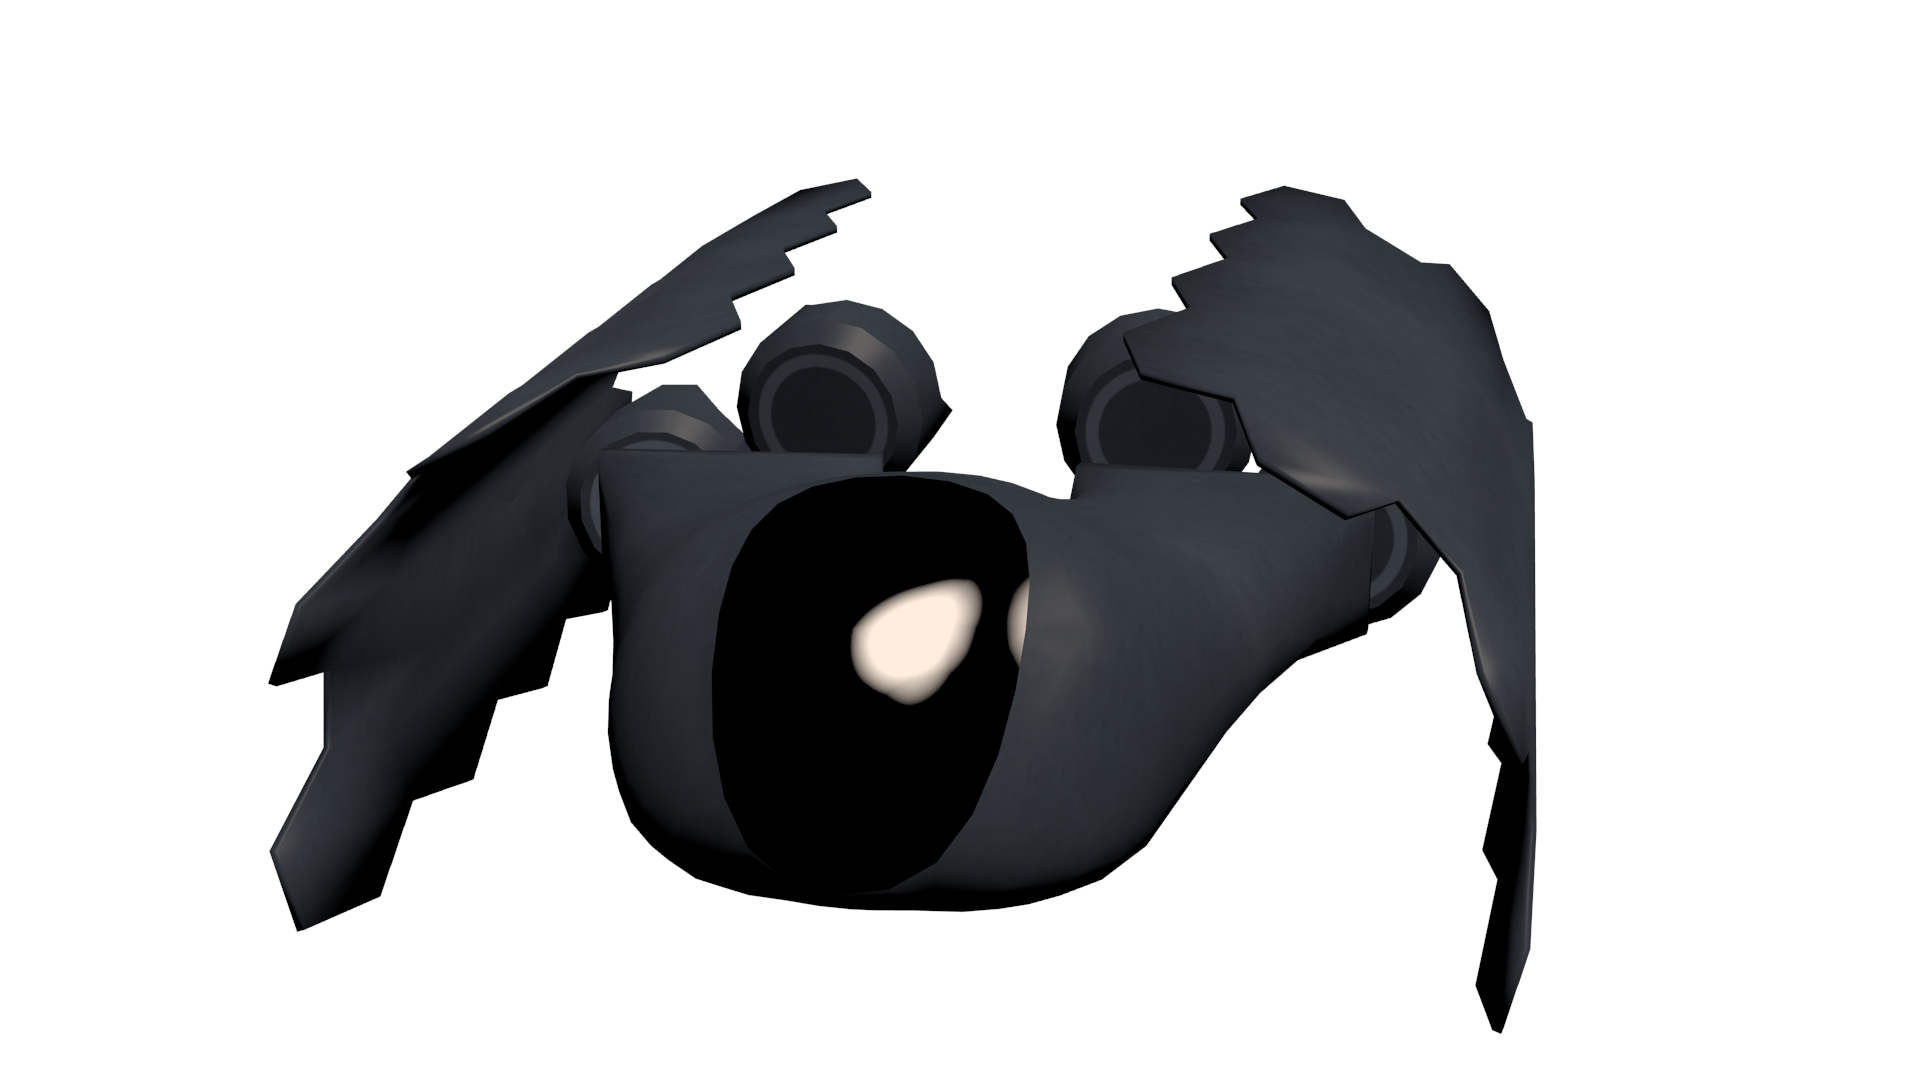
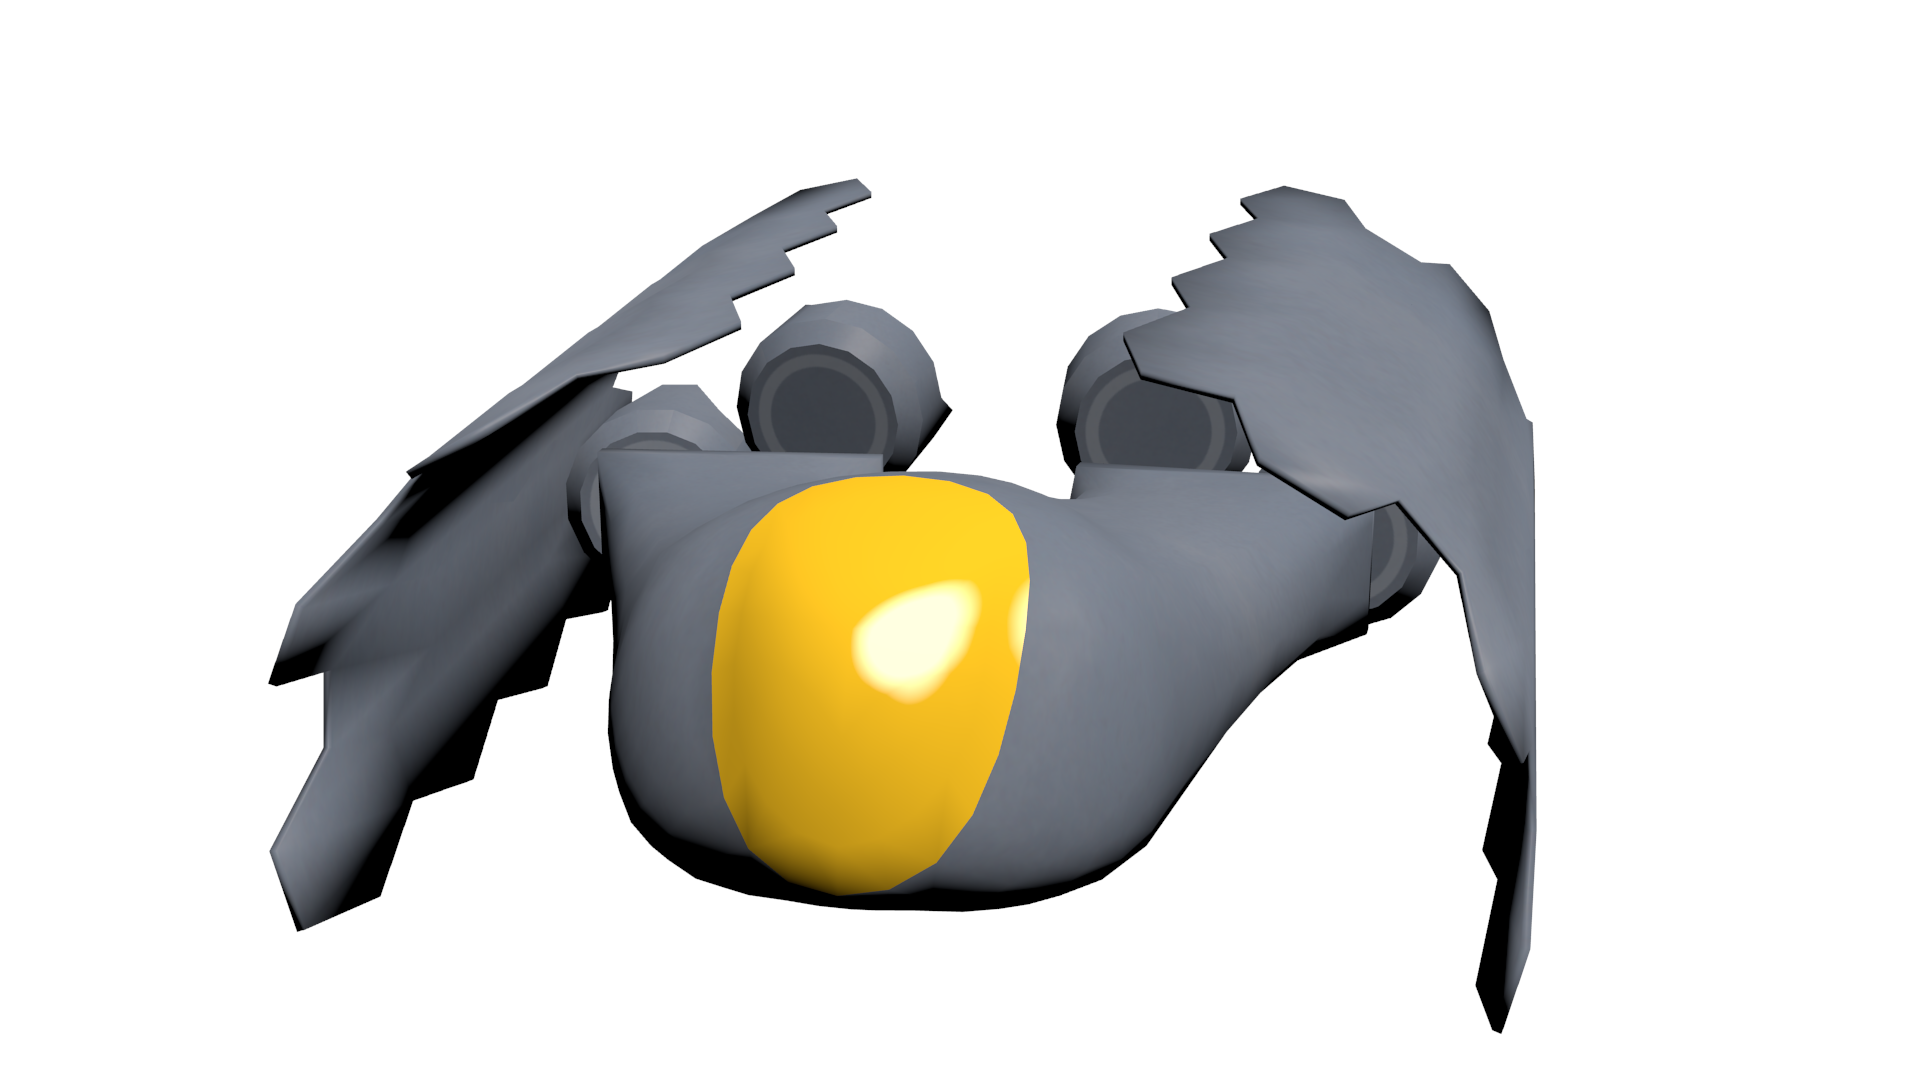
Made colors more consistent with the style.

Changed region(s): [[0.125, 0.1528, 0.8125, 0.9167]]

diff --git a/docs/design/idea.tex b/docs/design/idea.tex
@@ -58,7 +58,7 @@ Arba prarasti viską.
 \ship{
     Cthulhu Prevention
 }{
-    Skraidyklė kalmaro formos, aerodinamiška, nudažyta ryškių spalvų dažais ir dekoruota rėmėjų simbolika.
+    Skraidyklė kalmaro formos, aerodinamiška, nudažyta ryškiomis spalvomis ir dekoruota rėmėjų simbolika.
     Skraidyklė pavadinta jos pagrindinio rėmėjo -- draudimo kompanijos "Cthulhu Prevention" -- vardu.
 }{
     Gyvenimo dugną pasiekęs narkomanas keisto atsitiktinumo dėka savyje atranda neįtikėtiną piloto talentą.
